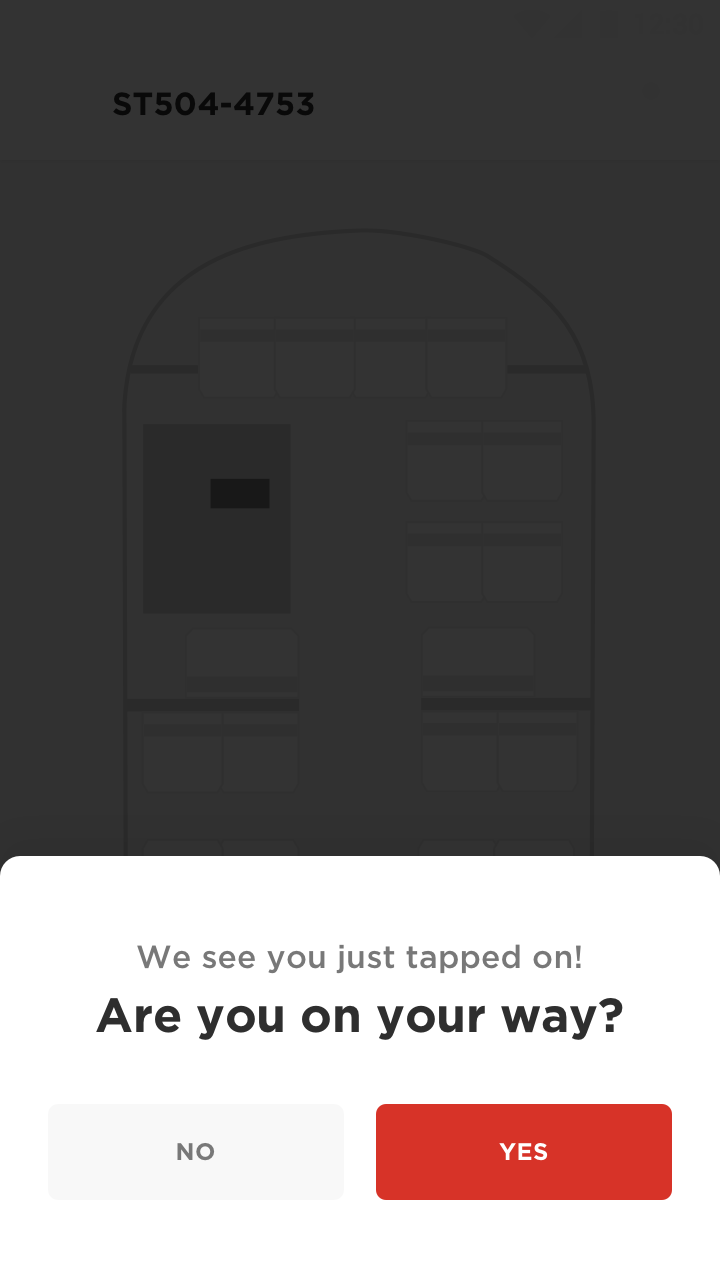
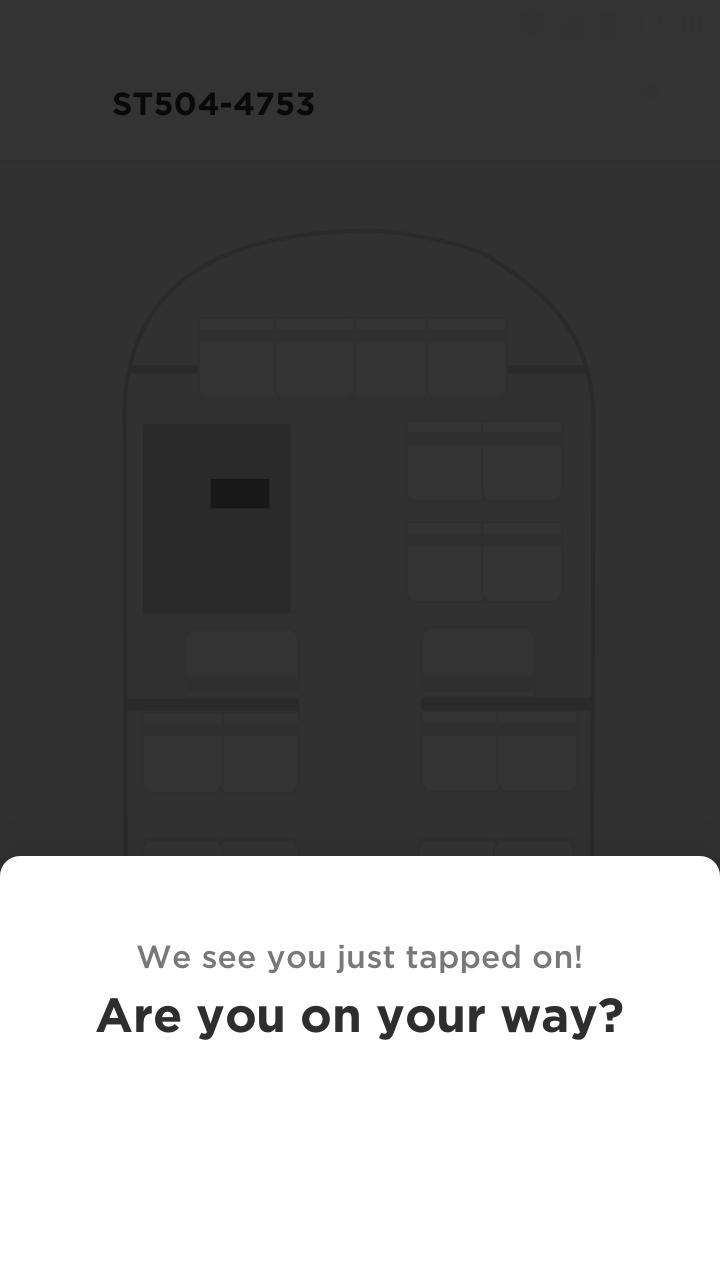
Add files via upload

Changed region(s): [[0.5194, 0.8438, 0.9472, 0.9375], [0.2444, 0.875, 0.3056, 0.9062]]

diff --git a/screens/AskScreen.js b/screens/AskScreen.js
@@ -15,6 +15,7 @@ import { MonoText } from '../components/StyledText';
 import Icon from "react-native-vector-icons/Ionicons";
 import { Font } from 'expo';
 import ImageSequence from 'react-native-image-sequence';
+import { Slider } from 'react-native';
 
 export default class AskScreen extends React.Component {
   static navigationOptions = {
@@ -37,10 +38,6 @@ export default class AskScreen extends React.Component {
     }
 
     next() {
-        setTimeout(() => {
-            this.setState({index: (this.state.index+1)%3});
-            this.next();
-        }, 3000);
     }
 
   render() {
@@ -52,8 +49,32 @@ export default class AskScreen extends React.Component {
         size={25}
         color='#2E2E2E'
         style={styles.hamburger}
-        onPress={() => this.props.navigation.navigate('Settings')} />
+        onPress={() => {this.props.navigation.navigate('Settings');this.setState({ index: 0 })}} />
     </ImageBackground>
+     {this.state.index == 0 &&
+    <View style={styles.buttonWrapper}>
+    <TouchableOpacity style={styles.actionButtons} onPress={() => {this.props.navigation.navigate('Settings');this.setState({ index: 0 })}} >
+                <Text style={[styles.noText]}>No</Text>
+          </TouchableOpacity>
+          <TouchableOpacity style={styles.actionButtons} onPress={() =>  setTimeout(() => { this.setState({index: 1})}, 200)}>
+                <Text style={[styles.yesText]}>Yes</Text>
+          </TouchableOpacity>
+    </View>
+    }
+
+    {this.state.index == 1 &&
+      <View style={styles.buttonWrapper}>
+        <Slider
+          style={{width: '95%', height: 160}}
+          minimumValue={0}
+          maximumValue={1}
+          minimumTrackTintColor="#FFFFFF"
+          maximumTrackTintColor="#FFFFFF"
+          onSlidingComplete={() => {this.setState({ index: 2 })}}
+        />
+      </View>
+    }
+
       </View>
         );
       }
@@ -224,6 +245,7 @@ textRot: {
   },
 
  submit:{
+    fontWeight: '500',
     marginTop:50,
     paddingTop:20,
     paddingBottom:20,
@@ -233,16 +255,35 @@ textRot: {
     borderColor: '#fff',
     width:300,
   },
-  submitText:{
-      color:'#000',
+  yesText:{
+      borderRadius:5,
+      fontWeight: '500',
+      color:'#fff',
       textAlign:'center',
+      backgroundColor:'#d73328',
+      padding:20,
+      marginLeft:40,
+      color:'#fff',
+      width:130,
+  },
+
+  noText:{
+      borderRadius:5,
+      fontWeight: '500',
+      color:'#222',
+      textAlign:'center',
+      backgroundColor:'#f8f8f8',
+      padding:20,
+      marginLeft:40,
+      width:130,
   },
 
   buttonWrapper:{
-     borderTopColor:'#333',
+    left:20,
+     bottom:30,
+     position:'absolute',
      flexDirection: 'row', 
-     alignSelf: 'flex-start',
-     marginTop:5,
+      alignSelf: 'flex-start',
 },
 
   bottomWrapper:{

diff --git a/screens/HomeScreen.js b/screens/HomeScreen.js
@@ -40,7 +40,7 @@ navigateToScreen = (route) => {
         onPress={() => this.props.navigation.dispatch(DrawerActions.openDrawer())} />
 		<View style={styles.rectangle}>
 			<View style={styles.sendContainer}>
-				<Text style={styles.headerText}>CAD 34.89</Text>
+				<Text style={styles.headerText}><Image source={require("../assets/images/plusCircle.png")} style={{width: 22, height: 22,}}/>CAD 34.89</Text>
 				<Text style={styles.instructions}>Tapped Yesterday at 3:40pm</Text>
 				<View style={styles.buttonWrapper}>
 					<TouchableOpacity style={styles.actionButtons} onPress={() => this.props.navigation.navigate('Settings')} underlayColor='#fff'>
